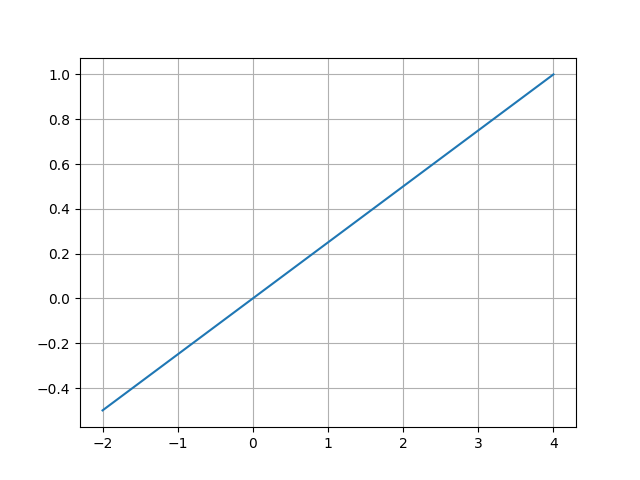
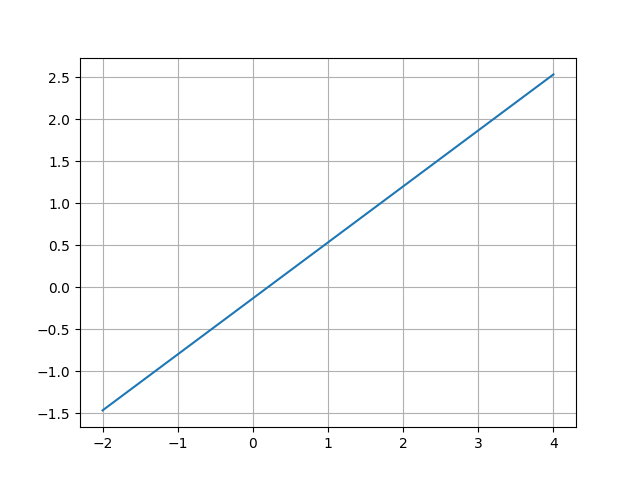
Updates aleatory dist & model

diff --git a/aulas/perceptron.py b/aulas/perceptron.py
@@ -3,33 +3,62 @@ import torch
 from typing import Union, List
 import numpy as np
 from matplotlib import pyplot as plt
-
+from sklearn.datasets import make_classification
+             
 
 class AulaPerceptron(Aula):
     def __init__(self) -> None:
         super().__init__()
         self.res = ""
+        np.random.seed(46)
 
-        self.mostra_conteudo_sobre([self.equacao_da_reta(-1, 4, 0.4)])
+        self.mostra_conteudo_sobre([
+            self.equacao_da_reta(-2, 3, 0.4),
+            self.distrbuicao_aleatoria(),
+            self.plotmodel(5,1,0.4)
+            ])
 
     def mostra_conteudo_sobre(self, conteudo: Union[str, List[str]]) -> None:
         return super().mostra_conteudo_sobre(conteudo, cor="green")
 
     def equacao_da_reta(self, a, b, c):
-        """_summary_
-            É aprendida na forma ax+by+c, mas para nos adequarmos às nomenclaturas de redes neurais,
-            podemos reescrever essa equação como w1x1 + w2x2 + b. Ou seja, w1,w2 e b são parâmetros que definem um modelo linear,
-            a reta
-        Returns:
-            str: _description_
+        """
+        É aprendida na forma ax+by+c, mas para nos adequarmos às nomenclaturas de redes neurais,
+        podemos reescrever essa equação como w1x1 + w2x2 + b. Ou seja, w1,w2 e b são parâmetros que definem um modelo linear,
+        a reta
         """
 
         # ax + by + c = 0
-        # y = (-a*x)/b
+        # y = (-ax-c)/b
         x = np.linspace(-2, 4, 50)
-        y = (-a * x) / b
+        y = (-a*x -c) / b
         plt.plot(x, y)
         plt.grid(True)
         plt.savefig("./assets/reta1.png")
         self.res = str(x) + "\n" + str(y) + "\n" + "gráfico salvo em assets/reta1.png"
-        return f"Equação da reta|" + self.res
+        return f"Equacao da reta|" + self.res
+
+    def distrbuicao_aleatoria(self):        
+        X,y = make_classification(n_features=2, n_redundant=0, n_informative=1, n_clusters_per_class=1)
+        
+        plt.scatter(X[:,0], X[:,1], marker='o', c=y, edgecolor='k')
+        plt.savefig("./assets/dist_aleatoria.png")
+        plt.close()
+        
+        self.res = str(X) + "\n" + str(y) + "\n" + "gráfico salvo em assets/dist_aleatoria.png"
+        return f"Distribuicao aleatoria|" + self.res
+    
+    def plotmodel(self, w1, w2, b):
+       
+        x = np.linspace(-2, 4, 50)
+        y = (-w1*x -b) / w2
+        X,Y = make_classification(n_features=2, n_redundant=0, n_informative=1, n_clusters_per_class=1)
+        
+        plt.scatter(X[:,0], X[:,1], marker='o', c=Y, edgecolor='k')
+        plt.axvline(0,-1,1,color='k', linewidth=1)
+        plt.axhline(0,-2,4,color='k', linewidth=1)
+        plt.plot(x,y)
+        plt.grid(True)
+        plt.savefig("./assets/modelo_reta.png")
+        self.res = str(x) + "\n" + str(y) + "\n" + "gráfico salvo em assets/modelo_reta.png"
+        return f"Modelo da reta|" + self.res
